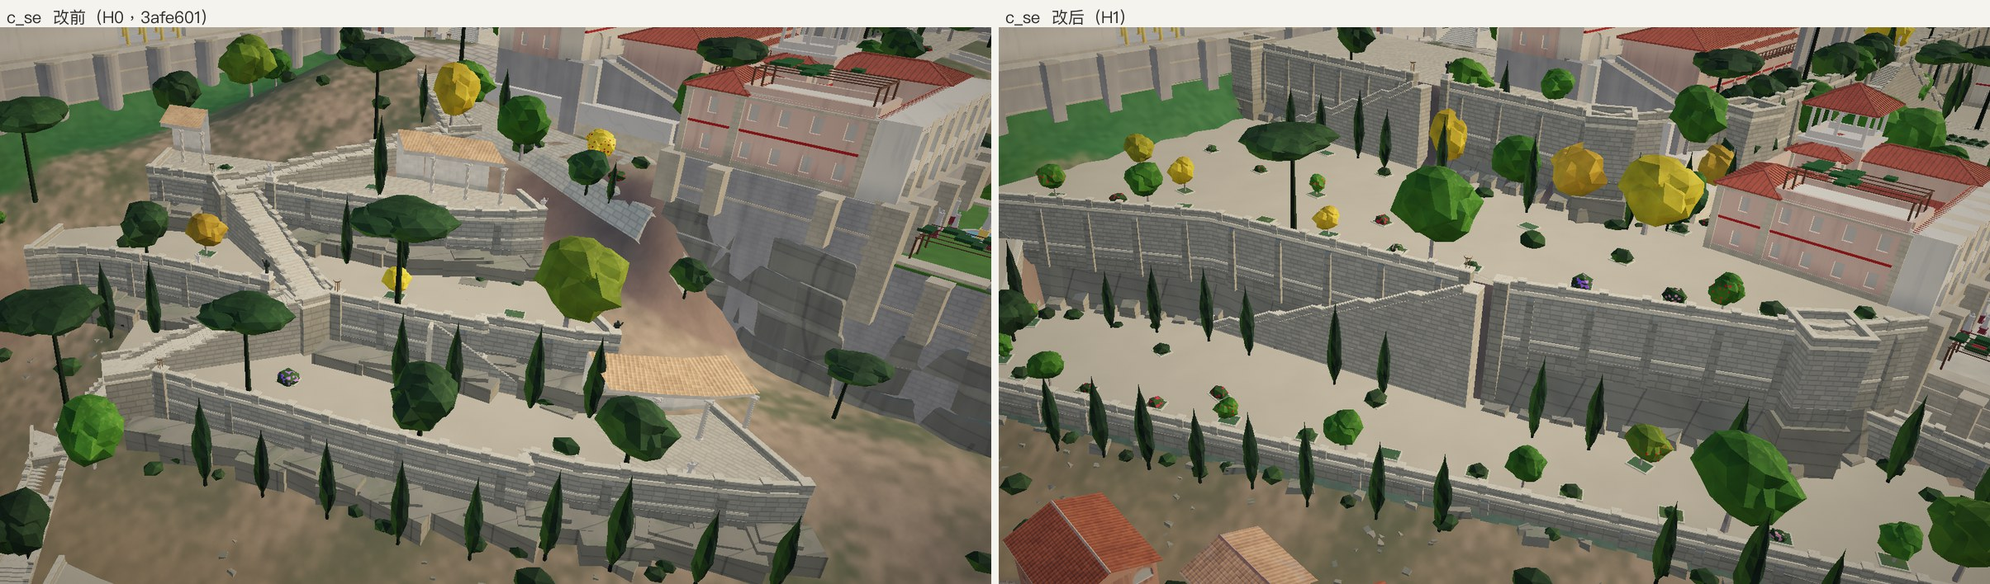
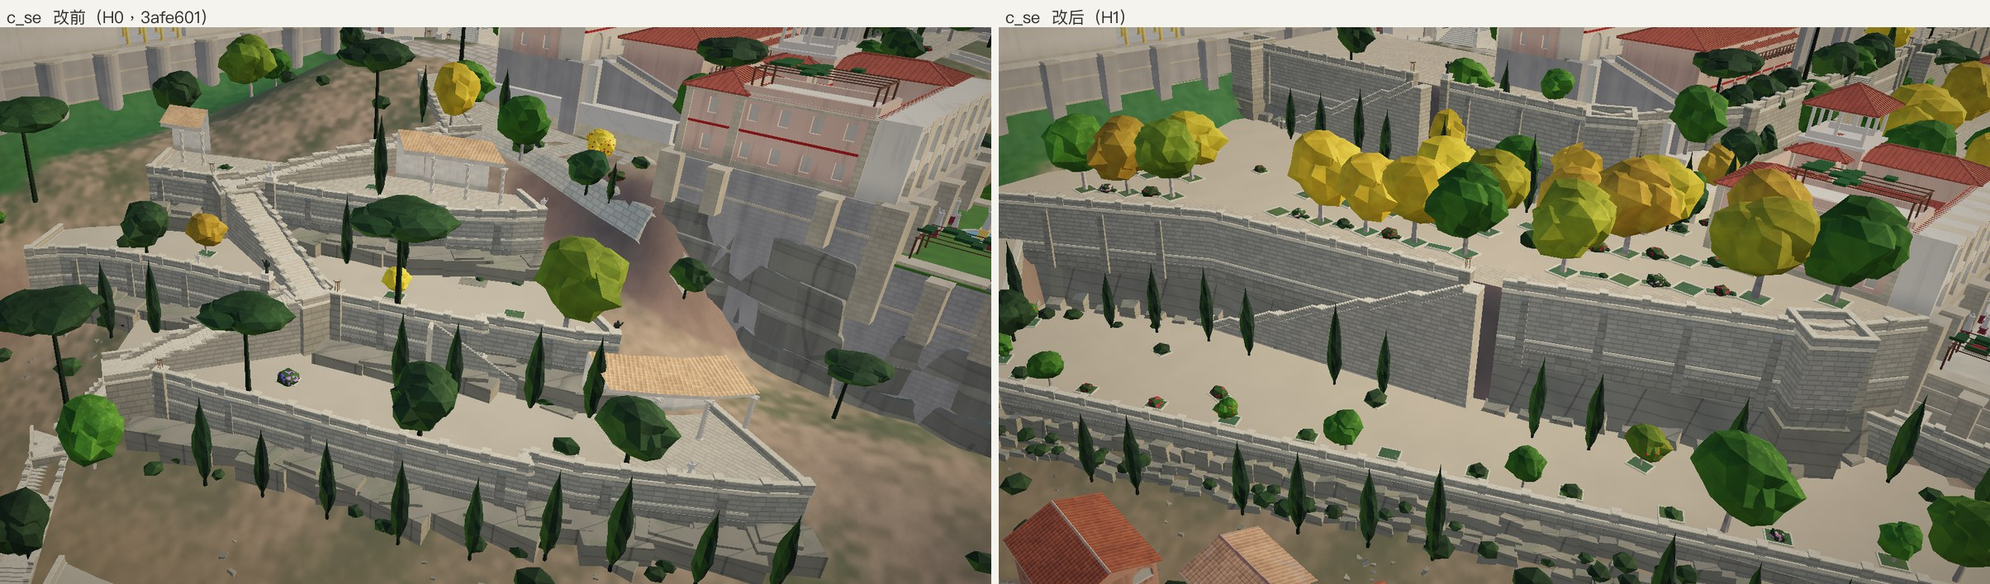
Palatine H1: review fixes before H2 (buttresses, planting, summit wall, ledge)
- terrace-edge.js: o.butt places buttresses by wall chain (turns under 20 deg
  form one wall): none on walls under 4 m, one every 9 m above, none at
  stairs or the fountain; o.noLump; W.wallButt records them. H1 walls only:
  163 -> 58 (under 4 m 41 -> 0, hemicycle 22 -> 8).
- Grade-5 paving warmed (PS_G5), same luminance.
- Belts beltE/beltS: a 4 m walk along the wall, two plane rows in lawn
  squares, box beds, gravel. Hemicycle: four planes, six beds and an
  aedicula wall fountain on the axis, as in H2-B. Planes carry owner 1.
- Summit wall: the paired B stairs split to flank the hemicycle (heads 14 m
  off the axis), a travertine string course between them.
- palLedge: a grade-1 ledge-rock band between the foot walls and the street
  (531 lumps, 92.9 % of the foot walls).
- Masterplan 9 and TODO updated; review screenshots and the H1 set re-shot.

Checks (?test): open ends 0, bare 0, reach 7/7, diagonal 0, wall-foot long
0, float 0; city-audit errors 0, test:boot clean, bake up to date.

diff --git a/nero-rome-reader /src/scenes/rome/palatine-h1.js b/nero-rome-reader /src/scenes/rome/palatine-h1.js
@@ -133,16 +133,20 @@ function palClipRect(P,x0,x1,z0,z1){let out=P;for(const[ax,sg,v]of[[0,1,x0],[0,-
   return out;}
 const palRectSub=(c,h)=>{if(h[1]<=c[0]||h[0]>=c[1]||h[3]<=c[2]||h[2]>=c[3])return[c];const o=[],mx0=Math.max(c[0],h[0]),mx1=Math.min(c[1],h[1]);
   if(h[0]>c[0])o.push([c[0],h[0],c[2],c[3]]);if(h[1]<c[1])o.push([h[1],c[1],c[2],c[3]]);if(h[2]>c[2])o.push([mx0,mx1,c[2],h[2]]);if(h[3]<c[3])o.push([mx0,mx1,h[3],c[3]]);return o;};
-// the floor of terrace P: gravel (part 60 flag 4) with a band of slabs (flag 3) inside its walls; slabs over the whole summit rim and the hemicycle garden.
+// the floor of terrace P: gravel (part 60 flag 4) with a band of slabs (flag 3) inside its walls, 1.2 m wide, on the belts a 4 m walk (the review of
+// 2026-11-12); slabs over the whole summit rim and the hemicycle garden. The bands are mitred at the corners (they stay inside the outline).
 // 8 m cells clipped exactly to the outline, less the buildings' rects
 function palPlatFloor(g,P,holes){const y=P.y+.06,paveAt=(lx,lz)=>P.id==='sumE'||(P.id==='beltE'&&lz>-42&&lz<6),cs=8,gz0=-42-cs*Math.ceil((-42-P.z0)/cs);let tri=0;
   for(let x=Math.floor(P.x0);x<P.x1;x+=cs)for(let z=gz0;z<P.z1;z+=cs){let R=[[x,x+cs,z,z+cs]];for(const h of holes)R=R.flatMap(c=>palRectSub(c,h));
     for(const c of R){const Q=palClipRect(P.pts,c[0],c[1],c[2],c[3]);if(Q.length<3)continue;let A=0,cx=0,cz=0;for(let i=0;i<Q.length;i++){const a=Q[i],b=Q[(i+1)%Q.length];A+=a[0]*b[1]-b[0]*a[1];cx+=a[0];cz+=a[1];}if(Math.abs(A)<.02)continue;
       g.set(60,.4,1,paveAt(cx/Q.length,cz/Q.length)?3:4);const ix=THREE.ShapeUtils.triangulateShape(Q.map(p=>new THREE.Vector2(p[0],p[1])),[]);
       for(const[i,j,k]of ix){g.poly([PFR.p(Q[i][0],y,Q[i][1]),PFR.p(Q[j][0],y,Q[j][1]),PFR.p(Q[k][0],y,Q[k][1])],[0,1,0]);tri++;}}}
-  if(P.id!=='sumE')for(const e of P.E){if(e.k!=='w'||e.L<4)continue;const lx0=e.a[0],lz0=e.a[1],Q=(s,d)=>PFR.p(lx0+e.ux*s-e.nx*d,y+.03,lz0+e.uz*s-e.nz*d);
-    if(P.id==='beltE'&&e.a[1]>-43&&e.a[1]<7&&e.b[1]>-43&&e.b[1]<7)continue;if(holes.some(h=>{const mx=lx0+e.ux*e.L/2,mz=lz0+e.uz*e.L/2;return mx>h[0]-2&&mx<h[1]+2&&mz>h[2]-2&&mz<h[3]+2;}))continue;
-    g.set(60,.4,1,3);g.poly([Q(1.86,.66),Q(e.L-1.86,.66),Q(e.L-1.86,1.86),Q(1.86,1.86)],[0,1,0]);tri+=2;}
+  if(P.id!=='sumE'){const D=P.id==='beltE'||P.id==='beltS'?4.66:1.86,n=P.E.length,
+      mit=(v,d)=>{const e0=P.E[(v+n-1)%n],e1=P.E[v],c=1+e0.nx*e1.nx+e0.nz*e1.nz,p=P.pts[v];if(c<.3)return[p[0]-e1.nx*d,p[1]-e1.nz*d];return[p[0]-(e0.nx+e1.nx)*d/c,p[1]-(e0.nz+e1.nz)*d/c];};   // the corner of the band d inside both edges at vertex v
+    for(const e of P.E){if(e.k!=='w'||e.L<4)continue;const lx0=e.a[0],lz0=e.a[1];
+      if(P.id==='beltE'&&e.a[1]>-43&&e.a[1]<7&&e.b[1]>-43&&e.b[1]<7)continue;if(holes.some(h=>{const mx=lx0+e.ux*e.L/2,mz=lz0+e.uz*e.L/2;return mx>h[0]-2&&mx<h[1]+2&&mz>h[2]-2&&mz<h[3]+2;}))continue;
+      const a0=mit(e.i,.66),a1=mit(e.i,D),v1=(e.i+1)%n,b0=mit(v1,.66),b1=mit(v1,D),pr=q=>(q[0]-lx0)*e.ux+(q[1]-lz0)*e.uz;if(pr(a1)>pr(b1)-.5||pr(a0)>pr(b0)-.5)continue;
+      g.set(60,.4,1,3);g.poly([a0,b0,b1,a1].map(q=>PFR.p(q[0],y+.03,q[1])),[0,1,0]);tri+=2;}}
   return tri;}
 // a cut wall: where the ground outside a walled edge is higher than the floor, a wall facing in from under the floor up to that ground, with a cap 3.8 m
 // deep over the dip the terrain makes behind it (palPlatShape) and a slab coping on its inner edge; samples every 2 m, runs where the cut is 0.5 m or more
@@ -168,52 +172,102 @@ function palPlatWalls(W){const g=new GB(1<<17),gF=new GB(1<<16),st=W.palPlatStat
   const holes=palPlBuild(),piers=palPierPlan(W),OP=W.palOpen||[];
   const HS=(W.hillStairs||[]).filter(h=>!h.pal&&h.R&&h.R.length>1).map(h=>{let x0=1e9,x1=-1e9,z0=1e9,z1=-1e9;for(const p of h.R){x0=Math.min(x0,p[0]);x1=Math.max(x1,p[0]);z0=Math.min(z0,p[1]);z1=Math.max(z1,p[1]);}return{R:h.R,r:h.w/2+1.2,x0,x1,z0,z1};});
   const nearHS=(x,z)=>HS.some(h=>x>h.x0-h.r&&x<h.x1+h.r&&z>h.z0-h.r&&z<h.z1+h.r&&nearPoly(x,z,h.R,h.r));
+  // buttresses (the review of 2026-11-12): none on a wall under 4 m, one every 9 m on the higher ones (a curve is one wall), none by a stair along the wall or
+  // the wall fountain; on the summit wall out from the fountain's axis both ways
+  const SB=[...(W.palStairs||[]).map(t=>({R:t.pts,r:t.w/2+.9})),...HS],F0=PAL_PLAN.fountains[0],fq=palW(F0.at[0],F0.at[1]);
+  const avoid=(x,z)=>Math.hypot(x-fq[0],z-fq[1])<4.6||SB.some(h=>nearPoly(x,z,h.R,h.r));
   for(const P of PAL_PL){st.floorTri+=palPlatFloor(gF,P,holes);
     const skip=P.E.filter(e=>e.k!=='w').map(e=>e.i),footY={};for(const e of P.E)if(e.k==='w'&&e.foot!=null)footY[e.i]=e.foot;
     const pv=piers.filter(c=>c.P===P).map(c=>c.v);st.piers+=pv.length;
     const open=(x,z,i,s)=>{for(const o of OP)if(o[0]===P.id&&o[1]===i&&s>=o[2]&&s<=o[3])return'stair';return nearHS(x,z)?'stair':false;};
-    const out=terraceEdge(W,g,P.pts,P.y,{F:PFR,tag:'pal:'+P.id,pal:1,skip,footY,open,rock:true,m3:true,wing:false,piers:pv});
+    const out=terraceEdge(W,g,P.pts,P.y,{F:PFR,tag:'pal:'+P.id,pal:1,skip,footY,open,rock:true,m3:true,wing:false,piers:pv,
+      butt:{min:4,sp:9,turn:20,avoid,sym:P.id===F0.wall?{1:F0.at[1]-palPlById(F0.wall).E[1].a[1]}:null},noLump:(x,z)=>{const[lx,lz]=palL(x,z);return lx<176&&lx>170&&lz>-45&&lz<9;}});   // the paved hemicycle at the summit wall's foot (H2-B)
     for(const e of out.edges){if(e.skip)continue;st.walls++;st.wallLen+=e.L;if(e.runs&&e.runs.length<e.S.length)st.openings+=Math.max(0,e.runs.length-1);for(const q of e.S){st.maxH=Math.max(st.maxH,q.h);if(q.rk!=null)st.rockRuns++;}}
     for(const e of P.E)if(e.k==='w'){st.cutLen+=palCutWall(W,g,P,e);if(e.foot!=null){const r=(W.wallFeet||[]).find(q=>q.tag==='pal:'+P.id+':'+e.i);if(r)r.ledge=true;}}   // a wall standing on a terrace's floor: no rocks or moss at its foot (terraceFeet), shrubs and cypresses only
     st.plants=(st.plants||0)+palPlatPlant(W,g,P,holes);}
-  palHemicycle(W,g);
+  palHemicycle(W,g);st.ledge=palLedge(W,g,SB);
   // the villas' garden terraces (30): their walls carry the model's lower garden where the foot terrace (26) is below, so __floatCheck must not call it floating
   for(const V of PAL_PLAN.villas){const P=palPlById(V.gardens);if(!P)continue;const xs=P.pts.map(p=>p[0]),zs=P.pts.map(p=>p[1]),x0=Math.min(...xs),x1=Math.max(...xs),z0=Math.min(...zs),z1=Math.max(...zs),q=PFR.p((x0+x1)/2,0,(z0+z1)/2);
     (ROME.supports=ROME.supports||[]).push({x:q[0],z:q[2],c:Math.cos(PALF.rot),s:Math.sin(PALF.rot),hw:(x1-x0)/2,hd:(z1-z0)/2});}
   st.wallLen=+st.wallLen.toFixed(0);st.maxH=+st.maxH.toFixed(1);st.cutLen=+st.cutLen.toFixed(0);
   for(const[G,name]of[[g,'palPlatWalls'],[gF,'palPlatFloors']]){const m=G.mesh(MAT.city);if(m){m.name=name;W.scene.add(m);}}}
+// M4 (the review of 2026-11-12): a band of ledge rock (grade 1) between the foot walls (footE, footS: the walls down to the ground) and the street, as in
+// H2-B: every 1.9 m along the wall up to three rows of rock lumps down the slope, the first against the wall's foot (its top 1-2.4 m up the wall, at most
+// 55 % of the wall's height), the next ones lower, each 1.2-2.4 m deep; a shrub on the band every few metres. Not on a street, a house, a road, an opening or
+// a stair. A wall whose foot has rock along 60 % of its length or more gets ledge (terraceFeet then plants shrubs and cypresses beyond the band only).
+// Returns {lumps, cover}: cover, the share of the walls' length (where they stand 0.4 m or more out of the ground, not open) with rock at the foot.
+function palLedge(W,g,SB){const gy=W.gy,busy=(x,z,r)=>(W.streetAt&&W.streetAt(x,z))||W.foot.hits(x,z,r,r,0,0,f=>f.tag==='open'||f.tag==='precinct')||SB.some(h=>nearPoly(x,z,h.R,h.r+.6));
+  let lumps=0,want=0,got=0;
+  for(const P of PAL_PL){if(P.id!=='footE'&&P.id!=='footS')continue;for(const e of P.E){if(e.k!=='w'||e.foot!=null)continue;const R=(W.wallFeet||[]).find(q=>q.tag==='pal:'+P.id+':'+e.i);if(!R||R.S.length<2)continue;
+    const S=R.S,tr=Math.atan2(-R.uz,R.ux),at=s=>{let k=0;while(k<S.length-2&&S[k+1].s<s)k++;const A=S[k],B=S[k+1],t=clamp((s-A.s)/((B.s-A.s)||1),0,1);return{x:lerp(A.x,B.x,t),z:lerp(A.z,B.z,t),gF:Math.min(A.y,B.y),h:Math.min(A.h,B.h),open:A.open||B.open};};
+    let w0=0,g0=0;
+    for(let s=.95;s<R.L-.9;s+=1.9){const q=at(s);if(q.open||q.h-.1<.4)continue;w0+=1.9;let d0=.25,placed=false;
+      for(let row=0;row<3;row++){const j=teH(q.x+row*7,q.z,81),hd=row?.6+.5*j:.7+.5*j;let d=d0+.3;while(d<d0+2*hd+.3&&!busy(q.x+R.nx*d,q.z+R.nz*d,.3))d+=.3;if(d-d0-.3<1.2)break;
+        const hh=Math.min(hd,(d-d0-.3)/2),hl=.95+.6*teH(q.z,q.x+row,82),cx=q.x+R.nx*(d0+hh),cz=q.z+R.nz*(d0+hh),C=frame(cx,0,cz,tr+(teH(q.x,q.z+row,83)-.5)*.35);let y0=1e9,yi=1e9;
+        for(const a of[-hl,hl])for(const b of[-hh,hh]){const p=C.p(a,0,b),yy=gy(p[0],p[2]);y0=Math.min(y0,yy);if(b<0)yi=Math.min(yi,yy);}
+        const top=row?yi+.6+.8*teH(cx,cz,84):q.gF+Math.min(.55*(q.h-.1),1+1.4*teH(q.x,q.z,84)),ht=Math.min(5,top-(y0-.45));if(ht<.6)break;
+        rockLump(g,C,hl,hh,y0-.45,ht,1,.2+.5*j,[cx,cz]);(W.palRocks=W.palRocks||[]).push([cx,cz,1.5]);lumps++;placed=true;
+        if(row&&teH(cx,cz,85)<.3)W.trees.push([cx,top-.1,cz,'shrub',.6+.5*teH(cx,cz,86),null,3]);
+        d0+=2*hh-.25;}
+      if(placed){R.brk.push(s);g0+=1.9;}}
+    want+=w0;got+=g0;if(w0&&g0/w0>=.6)R.ledge=true;}}
+  return{lumps,cover:want?+(got/want).toFixed(3):null};}
 // planting on a terrace's floor (no lawn: palatine-masterplan.md M5): along its own walls, 3 m in, a kerbed bed with a garden plant every 10 m and a cypress
 // or an umbrella pine between every other pair; on the wide floors (more than 7 m from every edge) beds on a 14 m grid. Not on the hemicycle garden (its own),
 // a building, a stair or within 2 m of one. Dice keyed to the place.
+// The belts (the review of 2026-11-12): inside the 4 m walk along their walls (palPlatFloor) plane trees in rows 6.5 and 14.5 m in, 7 m apart, each in a
+// kerbed square of garden lawn, and a box bed between each pair; the rest gravel, with the beds of the 14 m grid on the wide floors.
 function palPlatPlant(W,g,P,holes){const y=P.y+.06,ST=[...(W.palStairs||[]).map(s=>({R:s.pts,r:s.w/2+2})),...(W.hillStairs||[]).filter(h=>!h.pal&&h.R).map(h=>({R:h.R,r:h.w/2+2}))];let n=0;
   const free=(lx,lz,m)=>{if(!inPolyXZ(lx,lz,P.pts)||palPolyDl(lx,lz,P.pts)<m)return false;if(holes.some(h=>lx>h[0]-2&&lx<h[1]+2&&lz>h[2]-2&&lz<h[3]+2))return false;
       if(P.id==='beltE'&&lz>-45&&lz<9)return false;const[x,z]=palW(lx,lz);return!ST.some(h=>nearPoly(x,z,h.R,h.r));};
   const bed=(lx,lz,rot)=>{const q=PFR.p(lx,0,lz),F=frame(q[0],0,q[2],PALF.rot+rot),k=teH(q[0],q[2],71);trimSet(g,1,.5);box(g,F,0,y-.06,0,1.3,.26,1,31);g.set(23,.4);
       g.poly([F.p(-1.14,y+.205,-.84),F.p(1.14,y+.205,-.84),F.p(1.14,y+.205,.84),F.p(-1.14,y+.205,.84)],[0,1,0]);W.trees.push([q[0],y+.2,q[2],impGarden(k),.7+.5*teH(q[0],q[2],72),null,1]);n++;};
   const tree=(lx,lz)=>{const q=PFR.p(lx,0,lz),k=teH(q[0],q[2],73);W.trees.push([q[0],y,q[2],k<.62?'cyp':'pine',.8+.3*teH(q[0],q[2],74)]);n++;};
+  if(P.id==='beltE'||P.id==='beltS'){const T=[],room=(lx,lz,r)=>!T.some(t=>Math.hypot(t[0]-lx,t[1]-lz)<r);
+    for(const d of[6.5,14.5])for(const e of P.E){if(e.k!=='w'||e.L<8)continue;const at=s=>[e.a[0]+e.ux*s-e.nx*d,e.a[1]+e.uz*s-e.nz*d],rot=-Math.atan2(e.uz,e.ux),nt=Math.floor((e.L-4)/7);if(nt<1)continue;
+      for(let j=0,s0=(e.L-(nt-1)*7)/2;j<nt;j++){const s=s0+j*7,p=at(s);if(free(p[0],p[1],2.6)&&room(p[0],p[1],5.5)){palPlaneSq(W,g,p[0],p[1],y);T.push(p);n++;}
+        const q=at(s+3.5);if(j<nt-1&&free(q[0],q[1],2.2)&&room(q[0],q[1],2.6)){palBoxBed(W,g,q[0],q[1],y,rot,1.7,.7);n++;}}}
+    for(let lx=Math.ceil(P.x0/14)*14+7;lx<P.x1;lx+=14)for(let lz=Math.ceil(P.z0/14)*14+7;lz<P.z1;lz+=14)if(free(lx,lz,7)&&room(lx,lz,4))bed(lx,lz,0);
+    return n;}
   for(const e of P.E){if(e.k!=='w'||e.L<8)continue;const at=(s,d)=>[e.a[0]+e.ux*s-e.nx*d,e.a[1]+e.uz*s-e.nz*d],rot=-Math.atan2(e.uz,e.ux);
     for(let j=0,s=5;s<e.L-4;s+=10,j++){const p=at(s,3);if(P.id!=='sumE'&&free(p[0],p[1],2.2))bed(p[0],p[1],rot);if(j%2===1){const t=at(s-5,2.4);if(free(t[0],t[1],1.8))tree(t[0],t[1]);}}}
   if(P.id!=='sumE')for(let lx=Math.ceil(P.x0/14)*14+7;lx<P.x1;lx+=14)for(let lz=Math.ceil(P.z0/14)*14+7;lz<P.z1;lz+=14)if(free(lx,lz,7))bed(lx,lz,0);
   return n;}
+// a plane tree in a kerbed square of garden lawn 2.6 m across (hill grid lx, lz; floor y), as in the hemicycle (H2-B)
+function palPlaneSq(W,g,lx,lz,y,sc){const q=PFR.p(lx,0,lz),F=frame(q[0],0,q[2],PALF.rot);trimSet(g,1,.5);
+  for(const[cx,cz,hx,hz]of[[0,1.42,1.54,.12],[0,-1.42,1.54,.12],[1.42,0,.12,1.3],[-1.42,0,.12,1.3]])box(g,F,cx,y-.06,cz,hx,.24,hz,31);
+  g.set(23,.4);g.poly([F.p(-1.3,y+.1,-1.3),F.p(1.3,y+.1,-1.3),F.p(1.3,y+.1,1.3),F.p(-1.3,y+.1,1.3)],[0,1,0]);W.trees.push([q[0],y,q[2],'plane',sc||.9+.2*teH(q[0],q[2],75),null,1]);}   // owner 1 (imperial): the hill planting keeps the kind
+// a box bed (hill grid lx, lz; floor y; turned rot from the grid; hx x hz half): a travertine kerb, lawn, clipped box along its long sides, a flowering shrub
+// in the middle
+function palBoxBed(W,g,lx,lz,y,rot,hx,hz){const q=PFR.p(lx,0,lz),F=frame(q[0],0,q[2],PALF.rot+rot),k=teH(q[0],q[2],76);trimSet(g,1,.5);box(g,F,0,y-.06,0,hx,.3,hz,31);
+  g.set(23,.4);g.poly([F.p(-hx+.14,y+.245,-hz+.14),F.p(hx-.14,y+.245,-hz+.14),F.p(hx-.14,y+.245,hz-.14),F.p(-hx+.14,y+.245,hz-.14)],[0,1,0]);
+  for(let u=-hx+.55;u<hx-.3;u+=.9){if(Math.abs(u)<.8)continue;for(const v of hz>1.1?[-hz+.45,hz-.45]:[0]){const p=F.p(u,0,v);W.trees.push([p[0],y+.24,p[2],'shrub',.42+.08*teH(p[0],p[2],77),null,1]);}}
+  W.trees.push([q[0],y+.24,q[2],k<.65?'flower':'shrub',.75+.3*teH(q[0],q[2],78),null,1]);}
 const palPolyDl=(lx,lz,Q)=>{let d=1e9;for(let i=0;i<Q.length;i++){const a=Q[i],b=Q[(i+1)%Q.length];d=Math.min(d,segD(lx,lz,a[0],a[1],b[0],b[1]));}return d;};
-// the hemicycle garden between the two villas: slab paving (the floor), the slot's cheek walls, plane trees in a ring and in two rows, box beds,
-// the wall fountain under the summit stairs' landing on the axis
-function palHemicycle(W,g){const H=PAL_HEMI,y=PAL_PLAN.levels.belt,fy=PAL_PLAN.levels.foot,sl=PAL_PLAN.hemi.slot,P=(lx,yy,lz)=>PFR.p(lx,yy,lz),R=RNG(4207);
+// the hemicycle garden between the two villas (as H2-B, the review of 2026-11-12): slab paving (the floor), the slot's cheek walls, four plane trees in
+// lawn squares, six box beds in two rows of three either side of the axis walk, the wall fountain on the axis in an aedicula against the summit wall, and
+// a string course along that wall between the two summit flights' heads
+function palHemicycle(W,g){const H=PAL_HEMI,y=PAL_PLAN.levels.belt,fy=PAL_PLAN.levels.foot,sl=PAL_PLAN.hemi.slot,P=(lx,yy,lz)=>PFR.p(lx,yy,lz),yF=y+.06;
   // the slot's cheeks: a wall each side from under the foot floor up to the belt, coping and parapet on the belt side
   for(const zc of[sl[0][1],sl[1][1]]){const sg=zc<H.c[1]?-1:1,x0=sl[0][0],x1=sl[1][0],F=frame(...(()=>{const q=P((x0+x1)/2,0,zc+sg*.3);return[q[0],0,q[2]];})(),PALF.rot);
     g.set(60,.45,1,0);box(g,F,0,fy-.8,0,(x1-x0)/2,y+.1-fy+.8,.3,31);g.set(60,.45,1,1);box(g,F,0,fy-.8,0,(x1-x0)/2+.02,3.2,.37,31&~16);
     trimSet(g,1,.45);box(g,F,0,y+.1-.45,sg*.05,(x1-x0)/2+.05,.45,.45,31);g.set(60,.45,1,0);box(g,F,0,y+.1,sg*.1,(x1-x0)/2,.9,.3,31);trimSet(g,1,.5);box(g,F,0,y+1,sg*.1,(x1-x0)/2+.03,.1,.34,31);}
-  // plane trees: a ring 19 m round the centre (not on the axis) and two rows along the villas' sides of the garden
-  const T=[];for(let a=-80;a<=80;a+=20){if(Math.abs(a)<15)continue;const t=a*DEG;T.push([H.c[0]+19*Math.cos(t),H.c[1]+19*Math.sin(t)]);}
-  for(const lz of[-38.5,2.5])for(let lx=181;lx<=203;lx+=5.5)T.push([lx,lz]);
-  for(const[lx,lz]of T){const q=P(lx,0,lz);W.trees.push([q[0],y,q[2],'plane',.95+R()*.15]);const F=frame(q[0],0,q[2],PALF.rot);trimSet(g,1,.5);
-    for(const[cx,cz,hx,hz]of[[0,1.1,1.2,.12],[0,-1.1,1.2,.12],[1.1,0,.12,1],[-1.1,0,.12,1]])box(g,F,cx,y,cz,hx,.25,hz,31);}
-  // box beds with a travertine kerb either side of the axis walk, clipped box shrubs in them
-  for(const[lx,lz,hx,hz]of[[186,-27,5,2.2],[186,-9,5,2.2],[198,-27,4,2.2],[198,-9,4,2.2],[214,-30,3.2,1.8],[214,-6,3.2,1.8]]){const q=P(lx,0,lz),F=frame(q[0],0,q[2],PALF.rot);
-    trimSet(g,1,.5);box(g,F,0,y,0,hx,.3,hz,31);g.set(23,.4);g.poly([F.p(-hx+.16,y+.305,-hz+.16),F.p(hx-.16,y+.305,-hz+.16),F.p(hx-.16,y+.305,hz-.16),F.p(-hx+.16,y+.305,hz-.16)],[0,1,0]);
-    for(let u=-hx+1.1;u<hx-.6;u+=1.6)for(const v of[-hz+.9,hz-.9]){const p=F.p(u,0,v);W.trees.push([p[0],y+.3,p[2],'shrub',.55+R()*.1,null,1]);}}
-  // the wall fountain: a niche in the face of the summit stairs' landing (sumE edge 1 at s 102), a basin in front of it, a statue spouting into it
-  {const f=PAL_PLAN.fountains[0],Sn=PAL_PLAN.stairs.find(t=>t.id==='eastPn'),e=palPlById(f.wall).E[1],s=f.at[1]-e.a[1],o=Sn.legs[0][4]+Sn.w/2,
-    q=palEdgePt(f.wall,1,s,o),c=PFR.p(q[0],0,q[1]),F=frame(c[0],0,c[2],PALF.rot);   // on the landing's outer face; local x = +lx (out of the face), z = +lz
-    g.set(60,.5,1,1);box(g,F,.12,y,0,.12,4.6,2.6,31);g.set(61,.2,1,0);box(g,F,.2,y+.9,0,.06,2.9,1.5,2);trimSet(g,1,.5);box(g,F,.3,y+3.8,0,.32,.25,1.9,31);
-    pedestalStatue(g,F,.7,0,y+.55,2.2,{gilt:false});fountain(W,g,c[0]+PFR.d(3.3,0,0)[0],c[2]+PFR.d(3.3,0,0)[2],{y:y+.05,rot:PALF.rot,hx:2.8,hz:3.6,statue:0});}}
+  // four plane trees: a pair 10 m in front of the summit wall outside the beds, a pair at the front either side of the curve
+  for(const[lx,lz]of[[184,H.c[1]-13],[184,H.c[1]+13],[200,H.c[1]-18],[200,H.c[1]+18]])palPlaneSq(W,g,lx,lz,yF,1.12);
+  // six box beds, 4.8 x 4 m, either side of the 7.6 m axis walk
+  for(const lx of[184,191,198])for(const sg of[-1,1])palBoxBed(W,g,lx,H.c[1]+sg*6,yF,0,2.4,2);
+  // the wall fountain: an aedicula against the summit wall (sumE edge 1) on the axis: a podium, two pilasters, a dark niche with a statue, an entablature
+  // and a pediment; a basin in front. Local x = +lx (out of the wall), z = +lz; the wall's face leans out 4 % to its foot (0.58 m out at the belt)
+  {const f=PAL_PLAN.fountains[0],e=palPlById(f.wall).E[1],sf=f.at[1]-e.a[1],q=palEdgePt(f.wall,1,sf,0),c=PFR.p(q[0],0,q[1]),F=frame(c[0],0,c[2],PALF.rot),yE=y+4.4;
+    trimSet(g,1,.5);box(g,F,.8,yF-.06,0,.55,.9,2.7,31);   // the podium
+    for(const z of[-2.05,2.05])box(g,F,.95,yF+.84,z,.35,yE-yF-.84,.38,31&~32);   // the pilasters
+    g.set(60,.5,1,1);box(g,F,.62,yF+.84,0,.04,yE-yF-.84,1.7,31&~32);g.set(61,.18,1,0);box(g,F,.68,yF+1.2,0,.04,2.9,1.15,2);   // the panel behind, the niche
+    trimSet(g,1,.45);box(g,F,1,yE,0,.42,.62,2.75,31);   // the entablature
+    {const yp=yE+.62,yt=yp+1.2,x0=.6,x1=1.42,P3=(x,yy,z)=>F.p(x,yy,z);   // the pediment
+      g.poly([P3(x1,yp,-2.8),P3(x1,yp,2.8),P3(x1,yt,0)],PFR.d(1,0,0));for(const sg of[-1,1])g.poly([P3(x1,yp,sg*2.8),P3(x0,yp,sg*2.8),P3(x0,yt,0),P3(x1,yt,0)],PFR.d(0,2.8,sg*1.2));}
+    pedestalStatue(g,F,.95,0,yF+.84,2.4,{gilt:false});
+    const b=PFR.d(3.05,0,0);fountain(W,g,c[0]+b[0],c[2]+b[2],{y:yF-.01,rot:PALF.rot,hx:1.6,hz:2.7,statue:0});
+    // the string course: travertine, 0.45 m high and 0.3 m out of the face, with a drip under it, between the two flights' heads, over the wall's own
+    // (terraceEdge: 6 m under the coping) and clear of the pediment
+    const Sn=PAL_PLAN.stairs.find(t=>t.id==='eastPn'),Ss=PAL_PLAN.stairs.find(t=>t.id==='eastPs'),s0=Sn.legs[0][2],s1=Ss.legs[0][2],m=palEdgePt(f.wall,1,(s0+s1)/2,0),cm=PFR.p(m[0],0,m[1]),G=frame(cm[0],0,cm[2],PALF.rot),yc=palPlById(f.wall).y-.35-6.1;
+    trimSet(g,1,.5);box(g,G,.2,yc,0,.3,.45,(s1-s0)/2-.1,31);box(g,G,.14,yc-.16,0,.2,.16,(s1-s0)/2-.1,31);}}

diff --git a/nero-rome-reader /src/world/terrace-edge.js b/nero-rome-reader /src/world/terrace-edge.js
@@ -20,10 +20,15 @@ function terraceReserve(W,F,P,o={}){const Q=P.map(p=>{const q=F.p(p[0],0,p[1]);r
       more: a solid pluteus (default), or piers and stone grilles (o.rail[i]='transenna', round temple courts). B3 square buttresses every 6-8 m where the wall
       is higher than 2.5 m, blind arches (substructure()) over 9 m, piers at the corners. B4 half-round projections at the rock-spur corners in o.spur (a
       reconstruction). B5 at each opening the wall ends in a pier with a statue or a bronze tripod and turns back into the slope in a stepped wing wall.
+   o.butt (H1, palatine-masterplan.md 4, the review of 2026-11-12) in place of B3's rule: {min, sp, turn, avoid(x,z), sym:{i: s}}: a buttress only where
+   the wall is min m high or more, one every sp m along a run of walls that turn less than turn degrees at each vertex (a curve is one wall: a run of
+   8 m or less has none), evenly from end to end, or on edge i out from s both ways; none where avoid(x,z) (a stair along the wall); no corner pier at such a turn.
+   o.noLump(x,z): no rock lumps at the foot of the rock face there (a paved garden at its foot).
    o.skip: edges with no wall (shared with a higher terrace); o.footY[i]: the edge stands on a lower floor at that level (local), not on the ground;
    o.open(x,z,i,s): 'road' | 'stair' | 'arch' | false for a point on the edge; o.rooms[i]=[s0,s1]: an arcade of rooms in the wall there (B8, arcadeRooms). o.wing=false: no wing walls at the openings (a stair
    with its own cheek walls comes through).
-   Records: W.wallFeet (the samples and what breaks the line of the wall foot: read by terraceFeet and __wallFootCheck) and W.terraceEdges (the band). */
+   Records: W.wallFeet (the samples and what breaks the line of the wall foot: read by terraceFeet and __wallFootCheck), W.terraceEdges (the band) and
+   W.wallButt ([x, z, tag:edge, 'b3' | 'corner', height] per buttress and corner pier: the counts in palatine-masterplan.md 9). */
 function terraceEdge(W,g,P,yTop,o={}){
   const F=o.F,top=F.oy+yTop,yW=top-.35,gy=W.gy,n=P.length,Q=P.map(p=>{const q=F.p(p[0],0,p[1]);return[q[0],q[2]];});let A2=0;
   for(let i=0;i<n;i++){const a=Q[i],b=Q[(i+1)%n];A2+=a[0]*b[1]-b[0]*a[1];}
@@ -38,6 +43,12 @@ function terraceEdge(W,g,P,yTop,o={}){
       e.S.push({s,x,z,gF,h:yW-gF,open:(o.open&&o.open(x,z,i,s))||false,room:!!(rm&&s>rm[0]-.01&&s<rm[1]+.01)});}
     const S=e.S;for(const q of S){q.rk=o.rock&&q.h>9.8?yW-9.5:null;q.gW=q.rk??q.gF;if(q.rk!=null)q.h=yW-q.rk;}   // o.rock (H1, palatine-masterplan.md 2.1): over 9.8 m the masonry stands on the hill's rock, 9.5 m of wall at most
     for(let k=0;k<=ns;k++){let lo=k,hi=k;while(lo>0&&S[lo-1].h>9&&!S[lo-1].open)lo--;while(hi<ns&&S[hi+1].h>9&&!S[hi+1].open)hi++;S[k].sub=!o.rock&&S[k].h>9&&S[hi].s-S[lo].s>=12&&!S[k].room;S[k].bat=S[k].sub||S[k].room?0:.04;}}
+  const bPos=new Map(),BT=o.butt?Math.cos((o.butt.turn||20)*DEG):2;   // o.butt: the buttresses' places along each edge (s), by runs of walls that turn less than BT
+  if(o.butt){const soft=v=>{const e0=E[(v+n-1)%n],e1=E[v];return!e0.skip&&!e1.skip&&e0.ux*e1.ux+e0.uz*e1.uz>BT;},put=(i,s)=>{if(!bPos.has(i))bPos.set(i,[]);bPos.get(i).push(s);};
+    for(let v=0;v<n;v++){if(soft(v))continue;const ch=[];let u=v;do{if(E[u].skip)break;ch.push(E[u]);u=(u+1)%n;}while(soft(u)&&u!==v);if(!ch.length)continue;
+      const sym=ch.length===1&&o.butt.sym&&o.butt.sym[ch[0].i]!=null?o.butt.sym[ch[0].i]:null,Lc=ch.reduce((a,e)=>a+e.L,0),sp=o.butt.sp;
+      if(sym!=null){for(let s=sym;s<Lc-1.5;s+=sp)put(ch[0].i,s);for(let s=sym-sp;s>1.5;s-=sp)put(ch[0].i,s);continue;}
+      const nb=Lc<=8?0:Math.max(1,Math.round(Lc/sp));for(let j=0;j<nb;j++){let s=Lc*(j+.5)/nb;for(const e of ch){if(s<=e.L){put(e.i,s);break;}s-=e.L;}}}}
   const bodyAt=(e,k)=>{const q=e.S[k],f=Math.min(q.rk!=null?q.rk:q.gF-1.2,yW);return[f,q.bat*(yW-f)];},M3=!!o.m3;
   for(const e of E){if(e.skip)continue;const S=e.S,ns=S.length-1,{Wp,EF,X,nx,nz}=e,want=[nx,0,nz],seed=.3+.4*teH(e.a[0],e.a[1],1);
     const runs=[];for(let k=0;k<=ns;){if(S[k].open){k++;continue;}let k1=k;while(k1<ns&&!S[k1+1].open)k1++;if(k1>k)runs.push([k,k1]);k=k1+1;}
@@ -53,7 +64,7 @@ function terraceEdge(W,g,P,yTop,o={}){
       if(o.rock){for(let k=k0;k<k1;k++){const A=S[k],B=S[k+1];if(A.rk==null&&B.rk==null)continue;const ra=A.rk??A.gW,rb=B.rk??B.gW,j=t=>.35+.5*teH(e.a[0]+t,e.a[1]-t,21);   // the rock face: battered, its top edge uneven
           g.set(61,.25+.45*teH(A.x,A.z,22),pal,0);g.poly([Wp(A.s,1.1+j(A.s),A.gF-1.2),Wp(B.s,1.1+j(B.s),B.gF-1.2),Wp(B.s,.12,rb+.05),Wp(A.s,.12,ra+.05)],[nx,.35,nz]);
           g.poly([Wp(A.s,.12,ra+.05),Wp(B.s,.12,rb+.05),Wp(B.s,-.1,rb+.05),Wp(A.s,-.1,ra+.05)],[0,1,0]);
-          if(k%2===0){const m=Wp((A.s+B.s)/2,1.2+.6*teH(A.x,A.z,23),0),C=frame(m[0],0,m[2],EF.rot+(teH(A.z,A.x,24)-.5)*.4),hh=Math.min(ra,rb)-Math.min(A.gF,B.gF);
+          if(k%2===0&&!(o.noLump&&o.noLump(A.x,A.z))){const m=Wp((A.s+B.s)/2,1.2+.6*teH(A.x,A.z,23),0),C=frame(m[0],0,m[2],EF.rot+(teH(A.z,A.x,24)-.5)*.4),hh=Math.min(ra,rb)-Math.min(A.gF,B.gF);
             if(hh>1.2){rockLump(g,C,1.1+.8*teH(A.x,A.z,25),.9+.5*teH(A.x,A.z,26),Math.min(A.gF,B.gF)-.6,Math.min(hh*.7,1.2+2.2*teH(A.x,A.z,27)),pal,teH(A.x,A.z,28),[m[0],m[2]]);(W.palRocks=W.palRocks||[]).push([m[0],m[2],2]);}}}}
       // B2 coping and parapet
       const tA=cA&&spur(e.i)?TRIM:0,tB=cB&&spur(e.i+1)?TRIM:0,xa=Math.max(sA-(cA&&!tA?.3:0),tA),xb=Math.min(sB+(cB&&!tB?.3:0),e.L-tB);trimSet(g,pal,.45);if(M3)box(g,EF,X((xa+xb)/2),yW,-.2,(xb-xa)/2,.45,.45,31);else box(g,EF,X((xa+xb)/2),yW,-.075,(xb-xa)/2,.45,.375,31);   // M3 (H0): 0.45 m thick, 0.25 m out, 0.9 m deep
@@ -65,9 +76,10 @@ function terraceEdge(W,g,P,yTop,o={}){
           else{g.set(60,seed,pal,0);box(g,EF,X((ra+rb)/2),top+.1,-.12,(rb-ra)/2,.88,.2,31);trimSet(g,pal,.5);box(g,EF,X((ra+rb)/2),top+.98,-.12,(rb-ra)/2+.04,.1,.25,31);}}
         k=k2+1;}
       // B3 buttresses (or blind arches where the wall is higher than 9 m)
-      const Lr=sB-sA,m=Math.max(1,Math.round(Lr/7));
-      for(let j=0;j<m;j++){const s=sA+Lr*(j+.5)/m,k=Math.min(ns-1,Math.floor(s/(e.L/ns))),t=(s-S[k].s)/(S[k+1].s-S[k].s),gF=lerp(S[k].gW,S[k+1].gW,t),h=yW-gF;
-        if(h<=2.5||S[k].sub||S[k+1].sub||S[k].room||S[k+1].room)continue;buttress(g,e,s,S[k].rk!=null?gF:gF-1.2,yW-.12,S[k].bat,pal,seed);e.brk.push(s);}
+      const Lr=sB-sA,BP=o.butt?(bPos.get(e.i)||[]).filter(s=>(cA?s>=0:s>sA+1.2)&&(cB?s<=e.L:s<sB-1.2)&&!(o.piers&&((o.piers.includes(e.i)&&s<4.2)||(o.piers.includes((e.i+1)%n)&&s>e.L-4.2)))):null,m=BP?BP.length:Math.max(1,Math.round(Lr/7));
+      for(let j=0;j<m;j++){const s=BP?BP[j]:sA+Lr*(j+.5)/m,k=Math.min(ns-1,Math.floor(s/(e.L/ns))),t=(s-S[k].s)/(S[k+1].s-S[k].s),gF=lerp(S[k].gW,S[k+1].gW,t),h=yW-gF;
+        if(h<=(o.butt?o.butt.min:2.5)||S[k].sub||S[k+1].sub||S[k].room||S[k+1].room)continue;if(o.butt&&o.butt.avoid){const q=Wp(s,.6,0);if(o.butt.avoid(q[0],q[2]))continue;}buttress(g,e,s,S[k].rk!=null?gF:gF-1.2,yW-.12,S[k].bat,pal,seed);e.brk.push(s);
+          {const q=Wp(s,0,0);(W.wallButt=W.wallButt||[]).push([q[0],q[2],tag+':'+e.i,'b3',+h.toFixed(1)]);}}
       for(let k=k0;k<=k1;){if(!S[k].sub){k++;continue;}let k2=k;while(k2<k1&&S[k2+1].sub)k2++;const s0=S[k].s,s1=S[k2].s;
         if(s1-s0>=12){const SS=EF.sub(X((s0+s1)/2),0,0,0),nb=Math.max(1,Math.round((s1-s0)/7));substructure(W,g,SS,s1-s0,yW,0,1,{pil:60,sty:pal,bay:7});for(let j=0;j<=nb;j++)e.brk.push(s0+(s1-s0)*j/nb);}k=k2+1;}
       // B8 rooms in the wall
@@ -80,9 +92,9 @@ function terraceEdge(W,g,P,yTop,o={}){
   // corners: a pier where two walls meet at an outer corner, a half-round projection at the rock spurs
   for(let v=0;v<n;v++){const e0=E[(v+n-1)%n],e1=E[v];if(e0.skip||e1.skip)continue;const q0=e0.S[e0.S.length-1],q1=e1.S[0];if(q0.open||q1.open)continue;
     const cr=e0.ux*e1.uz-e0.uz*e1.ux;if(cr*(A2>0?1:-1)<=0)continue;const gF=Math.min(q0.gF,q1.gF);if(top-gF<.6)continue;let bx=e0.nx+e1.nx,bz=e0.nz+e1.nz;const bl=Math.hypot(bx,bz)||1;bx/=bl;bz/=bl;
-    const[vx,vz]=Q[v],sp=o.spur&&o.spur.includes(v);if(o.piers&&o.piers.includes(v))continue;
+    const[vx,vz]=Q[v],sp=o.spur&&o.spur.includes(v);if(o.piers&&o.piers.includes(v))continue;if(o.butt&&e0.ux*e1.ux+e0.uz*e1.uz>BT)continue;   // o.butt: a curve's facets meet with no pier
     if(sp){out.spurs.push(spurTower(W,g,vx,vz,bx,bz,gF,top,pal,Q));e0.brk.push(e0.L);e1.brk.push(0);continue;}
-    const C=frame(vx+bx*.3,0,vz+bz*.3,Math.atan2(bx,bz));(W.wallPiers=W.wallPiers||[]).push([vx+bx*.3,vz+bz*.3,.85]);g.set(60,.5,pal,1);box(g,C,0,gF-1.2,0,.85,top+1.2-gF+1.2,.85,31&~32);trimSet(g,pal,.5);box(g,C,0,top+1.2,0,.95,.18,.95,31);e0.brk.push(e0.L);e1.brk.push(0);}
+    const C=frame(vx+bx*.3,0,vz+bz*.3,Math.atan2(bx,bz));(W.wallPiers=W.wallPiers||[]).push([vx+bx*.3,vz+bz*.3,.85]);(W.wallButt=W.wallButt||[]).push([vx,vz,tag+':'+v,'corner',+(top-gF).toFixed(1)]);g.set(60,.5,pal,1);box(g,C,0,gF-1.2,0,.85,top+1.2-gF+1.2,.85,31&~32);trimSet(g,pal,.5);box(g,C,0,top+1.2,0,.95,.18,.95,31);e0.brk.push(e0.L);e1.brk.push(0);}
   // H1 (palatine-masterplan.md 2.2): a square pier about 6 x 6 m, 0.6 m above the wall top, at each turn of the wall line and where a wall ends on rock or a model
   for(const v of o.piers||[]){const e0=E[(v+n-1)%n],e1=E[v],w0=!e0.skip&&e0.S.length>0,w1=!e1.skip&&e1.S.length>0;if(!w0&&!w1)continue;const[vx,vz]=Q[v];
     let ux=(w0?e0.ux:0)+(w1?e1.ux:0),uz=(w0?e0.uz:0)+(w1?e1.uz:0);const ul=Math.hypot(ux,uz)||1;ux/=ul;uz/=ul;const C=frame(vx,0,vz,Math.atan2(-uz,ux));

diff --git a/nero-rome-reader /src/scenes/rome/palatine-plan.js b/nero-rome-reader /src/scenes/rome/palatine-plan.js
@@ -41,8 +41,10 @@ const PAL_PLAN=(()=>{const{c,R,stair}=PAL_HEMI,arc=[],ae=[];
     // the stair walks from the first leg's s0 (its head, an opening in that terrace's parapet when top is its floor) down to the floor 'floor' (null: the ground)
     stairs:[
       {id:'eastB',cls:'B',w:6,from:'beltE',to:'street',via:'footE',axis:[[207,-18],[300,-18]]},
-      {id:'eastPn',cls:'B',w:2.8,from:'summit',to:'beltE',top:55,floor:42,legs:[['sumE',1,100.1,56,1.9]],land:['sumE',1,102,4]},
-      {id:'eastPs',cls:'B',w:2.8,from:'summit',to:'beltE',top:55,floor:42,legs:[['sumE',1,103.9,148,1.9]],land:['sumE',1,102,4]},
+      // the paired flights flank the hemicycle (the review of 2026-11-12, after H2-B): each head 14 m off the axis (s 102), down and out along the summit wall
+      // towards the villas; the wall between the heads is clear for the string course and the wall fountain on the axis
+      {id:'eastPn',cls:'B',w:2.8,from:'summit',to:'beltE',top:55,floor:42,legs:[['sumE',1,88,50,1.9]]},
+      {id:'eastPs',cls:'B',w:2.8,from:'summit',to:'beltE',top:55,floor:42,legs:[['sumE',1,116,154,1.9]]},
       {id:'sumS',cls:'C',w:2.6,from:'summit',to:'beltE',top:55,floor:42,legs:[['sumE',3,30,64,1.6]]},   // from the summit rim by the Jupiter Victor temple down to the belt's south arm
       {id:'neC',cls:'C',w:2.6,from:'beltE',to:'footE',top:42,floor:26,legs:[['beltE',1,28,6,1.6],['footE',0,1.6,24,-6]]},   // the second leg 6 m in from the foot wall: clear of the corner pier
       {id:'seC',cls:'C',w:2.6,from:'beltE',to:'footE',top:42,floor:26,legs:[['beltE',23,2,42.4,1.6],['beltE',24,.5,10,1.6]]},

diff --git a/nero-rome-reader /src/core/materials.js b/nero-rome-reader /src/core/materials.js
@@ -165,7 +165,7 @@ vec3 stoneC(vec2 p,float s,vec3 base,float bw,float bh,float aa){float n=fbm2(p*
 float pjL(float d,float w,float px,float per){float ww=max(w,px*.5);return (1.-smoothstep(ww,ww+px*.75,d))*mix(1.,.72,smoothstep(w,w*4.,ww))*(1.-smoothstep(.3,.5,px/per));}
 vec2 pjB(float u,float row,float bl){float t=u/bl+h12(vec2(row,7.1))*1.7,i=floor(t),b0=i+(h12(vec2(i,row))-.5)*.25,b1=i+1.+(h12(vec2(i+1.,row))-.5)*.25,id=i;   // (block id, distance to its nearest head joint) for blocks bl +- 25 % long
  if(t<b0){b1=b0;id=i-1.;b0=i-1.+(h12(vec2(i-1.,row))-.5)*.25;}else if(t>b1){b0=b1;id=i+1.;b1=i+2.+(h12(vec2(i+2.,row))-.5)*.25;}return vec2(id,min(t-b0,b1-t)*bl);}
-const vec3 PS_G2=vec3(.276,.245,.179),PS_G3=vec3(.346,.309,.233),PS_G4=vec3(.578,.517,.382),PS_G5=vec3(.467,.405,.291);   // rusticated, ashlar, travertine, paving (linear albedo)
+const vec3 PS_G2=vec3(.276,.245,.179),PS_G3=vec3(.346,.309,.233),PS_G4=vec3(.578,.517,.382),PS_G5=vec3(.482,.401,.279);   // rusticated, ashlar, travertine, paving (linear albedo; paving warmed 2026-11-12, the H1 review: sRGB #b8aa92, H 38, S 21 %, the same luminance)
 vec3 palStone(vec3 wp,vec3 N,vec2 uv,vec4 A,float fl){vec3 c;float j=0.;bool vert=abs(N.y)<.6;
  vec2 pl=vec2(.8660254*wp.x+.5*wp.z,-.5*wp.x+.8660254*wp.z);   // the Palatine's own axes (PALF)
  if(fl<1.5){

diff --git a/nero-rome-reader /briefs/rome/palatine-masterplan.md b/nero-rome-reader /briefs/rome/palatine-masterplan.md
@@ -279,7 +279,7 @@ const PAL_PLAN={levels:{belt:42,foot:26},
 7. **提比略宫的 `rock3`** 是通过所有 GLB 岩石共用的着色器，在帕拉蒂尼范围里改的。模型和 `rome_tiberiana.py` 都没动。
    `tiberiana-v2` 换了新模型以后，这条映射照样作用在新模型的 `rock3` / `rock4` 上。
 
-## 9 H1 结果（2026-11-12，分支 `claude/palatine-h0`，还没提交）
+## 9 H1 结果（2026-11-12，分支 `claude/palatine-h1`，提交 f422036，合 main 后 a65371f；审查修改见本节末）
 东坡、南坡按第 3 节的图重做成闭合台地。截图：`docs/screenshots/palatine-h1-20261112/`。左边是 H0（3afe601），右边是 H1。8 个机位加七张近景，隔离以后重拍过。
 **烘焙**：第一次重新烘焙时，`?city=v2` 的街区肌理在帕拉蒂尼范围外也重切了。按审查的规定停下以后，作者选了隔离（2026-11-12）：帕拉蒂尼外面画一道围栏，围栏里肌理看到的是 H0 的输入。现在城里的街区和支路和 H0 一条不差（见下面“隔离”）。
 
@@ -290,22 +290,22 @@ const PAL_PLAN={levels:{belt:42,foot:26},
   - 东坡两宅之间的半圆是全山唯一的曲线，15° 一段。
 - **建台**（`palatine-h1.js`）：
   - 占地在盖房之前登记（`terraceReserve`）；墙用 `terraceEdge`（超过 9.8 m 下面露岩，M3 墙顶）。
-  - 转角 6 × 6 m 墩台 24 个。
+  - 转角 6 × 6 m 墩台 23 个（审查修改以后；原来 24 个，山顶东南角那个给 eastPs 的落脚让位，见本节末）。
   - 外面地面比台面高的地方做反向挡土墙，共 60 m。
-  - 台面是石板和碎石，沿墙一条石板边带，花坛和柏树、伞松各 115 处。
+  - 台面是碎石，沿墙一条石板边带（腰台是 4 m 宽的步道），花坛和柏树、伞松；腰台上是成排的悬铃木和黄杨花坛。种植共 148 处（审查修改以后）。
   - 东、南两坡在这些台地范围里不再放射线环台（`rayCut`），原来的 83 段环台墙都去掉了。
 - **两座东宅**：
   - 换成截断的新模型 `rome_domus_a_belt`、`rome_domus_b_belt`。宅地面 42，花园 36 和 30，旧模型留着。
   - 花园台 30 做成 34 m 宽，和模型花园墙一样宽（模型在 30–36 m 高度有 ±16.95 m，30 m 宽的台会让侧墙悬出 1.4–1.9 m）。
 - **半圆花园**：
-  - 铺地，悬铃木一圈加两排，六个黄杨花坛；
+  - 铺地，四棵悬铃木（各在一块草坪方池里），六个黄杨花坛分两列夹着中轴步道（审查修改以后，照 H2-B）；
   - 东阶槽口两侧有侧墙和胸墙；
-  - 山顶墙脚的平台上有壁泉和雕像。
+  - 山顶墙上正对中轴是壁泉：贴墙的小神龛（台座、两根壁柱、龛里一尊雕像、檐部和山花），前面一个水池；墙上一道石灰华腰线。
 - **阶梯**：
   - 东阶 B 从腰台穿过半圆、过脚台墙下到街面。
-  - 山顶到腰台：一对 B 级（eastPn、eastPs），另有一条 C 级 sumS，从尤皮特·维克托神庙旁边下到腰台南翼。
+  - 山顶到腰台：一对 B 级（eastPn、eastPs），夹在半圆两侧，各从离中轴 14 m 处沿山顶墙往外下到腰台，另有一条 C 级 sumS，从尤皮特·维克托神庙旁边下到腰台南翼。
   - 腰台到脚台两条 C 级；两座宅的花园各一条到脚台；南边一条门阶下到帕拉蒂尼坡道，一条从脚台出去。
-  - 共 597 级、46 个平台。
+  - 共 597 级、47 个平台。
 - **南坡**：三排柱廊楼放在 42、26 和街面三级；南大阶照旧，穿过腰台和脚台。
 - **地形**：
   - 台内地面压在台面下 0.3 m。
@@ -353,12 +353,12 @@ const PAL_PLAN={levels:{belt:42,foot:26},
 | 项 | H0 | H1 |
 |---|---|---|
 | 东、南两坡的墙 | 83 段环台墙 | 42 段：30 段直墙，另有半圆的 12 段（第 5 节第 2 条认可的那条曲线） |
-| `__palOpenEnds()` 墙端 | 35 个，22 个悬空 | 102 个，0 个悬空（墩台 23、接墙 71、落地 4、岩 4） |
+| `__palOpenEnds()` 墙端 | 35 个，22 个悬空 | 104 个，0 个悬空（墩台 25、接墙 71、落地 4、岩 4；审查修改以后） |
 | `__palBaseCheck()` 露出的基座 / 允许 | 东宅 23.8 / 4.4、24.9 / 4.4；块 c 1.1；块 a 6.2；南楼 5.5、5.7 | 东宅 0、0；块 c、a 0；南楼 0、0；街面一排 4.4 / 6.9。北坡两宅 25.1、26 是 H2 的 |
 | `__palBareSlope()` 脚台墙内超过 30° 的草和土 | 1 895 m² | 0 |
 | `__palReach()` | 8 块台 3 块走得到；1 条阶梯斜穿台地（尤皮特·维克托神庙阶梯，62°） | 7 / 7；斜穿 0 |
 | 尤皮特·维克托神庙 | 一条斜穿东坡的阶梯 | 从神庙右侧走 24 m 到 sumS 阶梯 |
-| `__wallFootCheck()` | 墙 108，接缝 5，长缝 0 | 墙 127，接缝 5，长缝 0 |
+| `__wallFootCheck()` | 墙 108，接缝 5，长缝 0 | 墙 127，接缝 6，长缝 0（多的一条是半圆后面山顶墙落在铺地上的 12 m，照 H2-B 不放岩块） |
 | `__floatCheck()` | 2（两座剧场舞台楼，0.6 m，不在帕拉蒂尼） | 同样这 2 个 |
 | 台面上冒出台面的地面（距边 3.5 m 以内不算） | — | 0 |
 | 冒出踏步的地面（每条阶梯每级取 5 点） | — | 10 条里 7 条为 0；seC 在腰台转角 6 点（最多 1.64 m），footSlot 下端 4 点（0.73 m），clivG 2 点（0.25 m） |
@@ -383,3 +383,42 @@ const PAL_PLAN={levels:{belt:42,foot:26},
 4. **东南角原来的环台**去掉以后，城里的房子一直盖到脚台墙下（south_circus 右半）。
 5. **三处阶梯有地面冒出踏步**（上表），在转角平台和落地一端，侧墙挡住了大半，这次没修。
 6. **阶梯起落点在墩台或折角**（第 4 节第 6 条）没有单独的检查。各阶梯的起点都在墙线上的开口处，有平台。
+
+### 审查修改（2026-11-12，H2 之前）
+审查对照 `renders/palatine/hill-terraces-v1/images/H2-B.png` 提了四条。截图：`docs/screenshots/palatine-h1-review-20261112/`，左边是审查前的 H1（a65371f），右边是改后；`*_summer.jpg` 是改后的夏季画面，用来和 H2-B 对照（别的截图用阅读状态 0 的季节，落叶树一部分发黄）。
+1. **扶壁**（`terrace-edge.js` 的 `o.butt`，只用在 H1 的台地墙上）：
+   - 墙高不到 4 m 不放；4 m 以上每 9 m 一根，扶壁本身没改（脚下凸出 0.6 m，顶上 0.32 m）。
+   - 折角小于 20° 的一串墙当成一道墙排（半圆的 15° 分段是一道弧），从一头到另一头均匀分；折角处也不再放转角墩。
+   - 阶梯沿墙走的地方、壁泉两侧 4.6 m 以内不放。山顶墙从中轴往两边每 9 m 一根，对称。
+   - 根数（扶壁 + 转角墩）：全部 H1 墙 163 → 58（扶壁 150 → 55，转角墩 13 → 3）；不到 4 m 的墙上 41 → 0；半圆弧墙 22 → 8（两边各 4 根）。
+2. **铺地和种植**：
+   - 5 级铺地调暖（`materials.js` 的 `PS_G5`，明度不变），碎石跟着变暖。目标色 `#bdb29b` 是 H41 S18 V74。
+     - 八个机位受光面的平均：石板 H39.4 S17 → H38.0 S19，碎石 H39.5 S19 → H38.2 S21，仍在 M1 的范围里（色相 38–48°，饱和度 8–22 %）。
+     - 半圆近景：H43 S15 V71 → H38 S18 V73。
+     - 原来的颜色其实已经离目标色不远。“发白”主要是因为光秃秃的铺地太多，所以这一条主要靠下面的种植来改。
+   - 腰台（`beltE`、`beltS`）：沿墙一条 4 m 宽的石板步道（转角斜接，不出台边），其余是碎石；步道里面 6.5 m 和 14.5 m 各一排悬铃木，间距 7 m，每棵在一块 2.6 m 的草坪方池里，两棵之间一个黄杨花坛；宽的地方照旧是 14 m 一格的花坛。
+   - 半圆花园：四棵悬铃木（靠山顶墙一对，前面弧的两侧一对），六个黄杨花坛（4.8 × 4 m）分两列，中间 7.6 m 的中轴步道；壁泉在中轴上，贴着山顶墙。
+   - 悬铃木标了 owner 1（皇家）：山上的种树（`monuments.js` 第 924 行）不再把它们换成别的树种。原来半圆里的“悬铃木”多半被换成了伞松和常绿树。
+3. **山顶墙**（半圆后面）：
+   - 两条 B 级阶梯 eastPn、eastPs 原来在中轴上合用一个平台，从墙中间往两边下，从正面看是一个大三角。现在各自的顶在离中轴 14 m 处，沿墙往外下到腰台，落脚在两座宅的端头（lz −63.9、27.9）。两个顶之间 28 m 的墙面是空的。
+   - 那段墙上一道石灰华腰线：高 0.45 m，凸出墙面 0.3 m，下面有滴水，压在墙自带的那道 6 m 腰线上。
+   - 壁泉：小神龛贴墙，台座、两根壁柱、深色的龛、雕像、檐部和山花，总高 6.2 m，山花顶在腰线下面；前面一个 3.2 × 5.4 m 的水池。
+   - 这段墙脚原来按“超过 9.8 m 下面露岩”放了岩块，落在半圆的铺地上；H2-B 那里是墙直接落在铺地上，所以墙下段仍是岩面，岩块不放了（`o.noLump`）。
+4. **岩台（M4）**（`palLedge`）：
+   - 脚台的外墙（`footE`、`footS` 落到地面的墙）和街之间加了一条 1 级岩台：沿墙每 1.9 m 最多三排岩块，往坡下走。
+   - 第一排贴墙脚，顶在墙上 1–2.4 m，不超过墙高的 55 %；后面几排矮一些；岩台上隔几米一丛灌木。
+   - 不压街、房子、道路、开口和阶梯。共 531 块，覆盖脚墙长度的 92.9 %（M4 要求 60 %）。
+   - 受光面 `#877f6b`（H41 S21 V53），1 级目标色是 `#8f8571`。
+   - 覆盖到 60 % 的墙记为 ledge，`terraceFeet` 只在岩台外面种灌木和柏树。`footS` 东墙只覆盖了一部分，那里 `terraceFeet` 照旧补岩块。
+
+验收（审查前 → 审查后）：
+- 墙端 102 → 104，0 个悬空。
+- 裸坡 0；可达 7/7，斜穿 0；墙脚长缝 0；悬空 0。
+- 阶梯 597 级，平台 46 → 47。
+- 6 × 6 m 墩台 24 → 23；种植 115 → 148。
+- `bake-roads.mjs --check` 两个文件都是最新（不用重新烘焙）；`city-audit.mjs --assert` errors 0；`npm run check` syntax ok；`test:boot` no page errors；没有围栏警告。
+
+审查规则没有完全照做的地方：
+- **山顶东南角**（sumE 的 (174, 34)）没有 6 × 6 m 墩台了：eastPs 现在落脚在 lz 27.9，离这个角 6.4 m，在墩台要让阶梯的 4.4 m 范围里。这里是一个 1.7 m 的转角墩。
+- **脚台**（`footE`）的台面仍是大片碎石，审查只点了腰台。要不要也照腰台做（步道加成排的树），等审查定。
+

diff --git a/nero-rome-reader /docs/TODO.md b/nero-rome-reader /docs/TODO.md
@@ -681,6 +681,15 @@ Keep this file current: every promise made to the author goes here until it is d
 - [x] 东阶最下一段在盖房之前占地：钉住连接线以后，路边一排房子里有一栋落在阶梯上，现在没有了。
 - [ ] 三处阶梯有地面冒出踏步：seC 在腰台转角 1.64 m，footSlot 下端 0.73 m，clivG 0.25 m。
 - [ ] 转角墩台在宅子交接处和阶梯旁 4.4 m 以内没放（第 9 节第 2 条）。
+- [x] 审查修改（2026-11-12，H2 之前，对照 H2-B；第 9 节末“审查修改”，截图 `docs/screenshots/palatine-h1-review-20261112/`）：
+  - 扶壁：墙高不到 4 m 不放，4 m 以上每 9 m 一根，弧墙算一道墙。全部 H1 墙 163 → 58，不到 4 m 的墙 41 → 0，半圆弧墙 22 → 8。
+  - 铺地：5 级调暖（明度不变）。腰台沿墙 4 m 石板步道，其余碎石，两排悬铃木加黄杨花坛。
+  - 半圆：四棵悬铃木、六个花坛、中轴壁泉（贴墙小神龛）。
+  - 山顶墙：两条 B 级阶梯分到半圆两侧，中间一道石灰华腰线。
+  - 岩台：脚墙和街之间加 1 级岩台，531 块，覆盖 92.9 %。
+  - 检查：可达 7/7、斜穿 0、墙端 0 悬空、裸坡 0、长缝 0；烘焙检查两个文件都是最新，审计 errors 0，`test:boot` 无页面错误。
+- [ ] 山顶东南角 (174, 34) 的 6 × 6 m 墩台给 eastPs 的落脚让位了，现在是 1.7 m 转角墩。
+- [ ] 脚台 `footE` 的台面要不要也照腰台做（步道加成排的树）：等审查定。
 
 ### 2026-11-12 帕拉蒂尼 H0：一套石头（`briefs/rome/palatine-masterplan.md` 第 4 节 H0，结果在第 8 节）
 - [x] 在现有的台地墙上落实 M1–M6，墙线、台地、阶梯位置、占地都没动，道路不用重新烘焙。分支 `claude/palatine-h0`。截图 `docs/screenshots/palatine-h0-20261112/`（左改前、右改后）。
